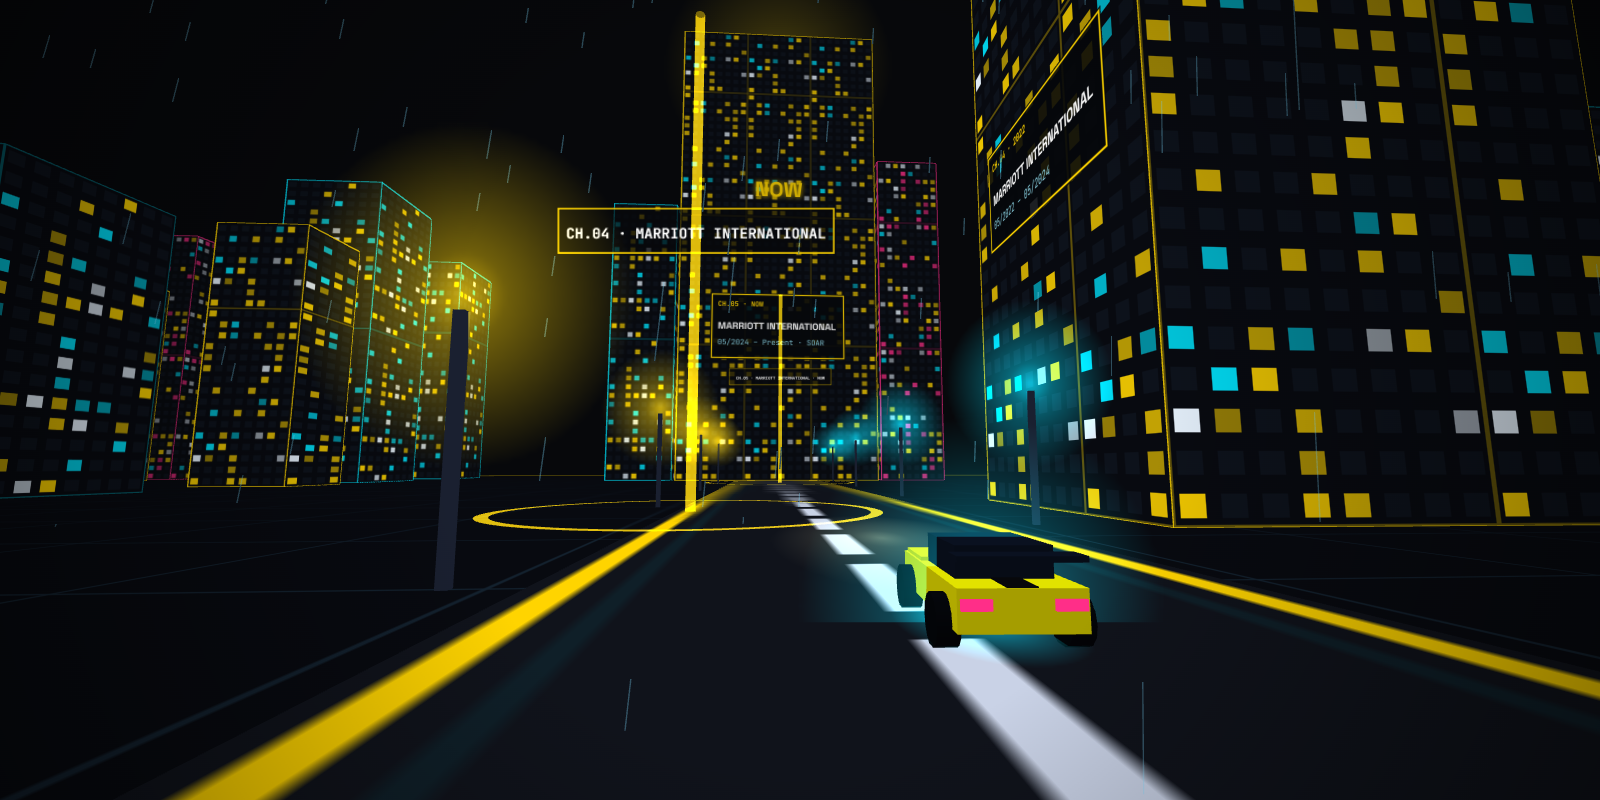
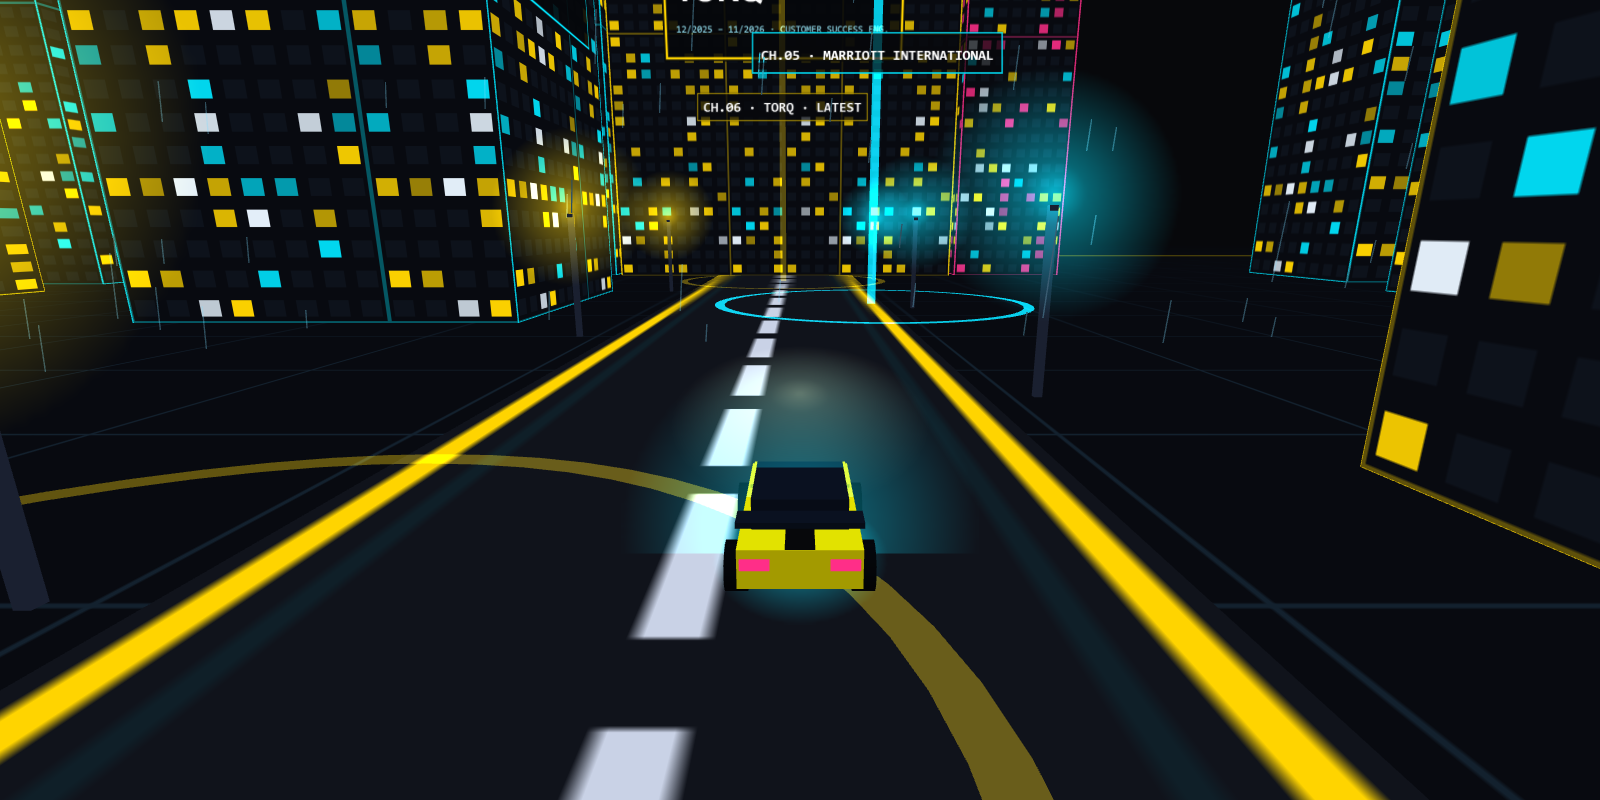
Update to final resume: Torq chapter, skills by category, contact email

diff --git a/game.js b/game.js
@@ -23,9 +23,9 @@ function buildResume() {
   el.innerHTML =
     '<div class="bar"><b>// PLAIN RÉSUMÉ</b><span><button class="btn ghost" id="rsPrint">Print / save PDF</button> <button class="btn go" id="rsBack">Back to the city</button></span></div>' +
     '<div class="page"><h1>' + esc(R.name) + '</h1><div class="t">' + esc(R.title) + '</div>' +
-    '<div class="links"><a href="' + esc(R.linkedin) + '" target="_blank" rel="noopener">LinkedIn</a><a href="' + esc(R.github) + '" target="_blank" rel="noopener">GitHub</a></div>' +
+    '<div class="links"><a href="mailto:' + esc(R.email) + '">' + esc(R.email) + '</a><a href="' + esc(R.linkedin) + '" target="_blank" rel="noopener">LinkedIn</a><a href="' + esc(R.github) + '" target="_blank" rel="noopener">GitHub</a></div>' +
     '<h3>SUMMARY</h3><p>' + esc(R.summary) + '</p><h3>EXPERIENCE</h3>' + jobs +
-    '<div class="g"><div><h3>SKILLS</h3><ul>' + R.skills.map(function (s) { return '<li>' + esc(s[0]) + ' — ' + s[1] + '/5</li>'; }).join('') + '</ul>' +
+    '<div class="g"><div><h3>SKILLS</h3><ul>' + R.skills.map(function (s) { return '<li><b>' + esc(s[0]) + ':</b> ' + esc(s[1].join(', ')) + '</li>'; }).join('') + '</ul>' +
     '<h3>EDUCATION</h3><ul>' + R.edu.map(function (e) { return '<li>' + esc(e[0]) + ' — ' + esc(e[2]) + ' (' + esc(e[1]) + ')</li>'; }).join('') + '</ul>' +
     '<h3>LANGUAGES</h3><ul>' + R.langs.map(function (l) { return '<li>' + esc(l[0]) + ' — ' + esc(l[1]) + '</li>'; }).join('') + '</ul></div>' +
     '<div><h3>CERTIFICATIONS</h3><ul>' + R.certs.map(function (c) { return '<li>' + esc(c) + '</li>'; }).join('') + '</ul></div></div></div>';
@@ -218,11 +218,11 @@ function addZone(o) {
 
 /* --- chapters: timeline road, oldest at the south end, "now" at the tower --- */
 var jobsOld = R.jobs.slice().reverse();
-var jobPos = [[-30, -60, 24, 22, 38, 'y', 1], [30, -115, 24, 22, 48, 'c', -1], [-30, -170, 26, 24, 58, 'm', 1], [30, -225, 26, 24, 68, 'y', -1]];
+var jobPos = [[-30, -60, 24, 22, 38, 'y', 1], [30, -115, 24, 22, 48, 'c', -1], [-30, -170, 26, 24, 58, 'm', 1], [30, -225, 26, 24, 68, 'y', -1], [-30, -278, 26, 24, 78, 'c', 1]];
 jobsOld.forEach(function (j, i) {
   var kick = 'CH.0' + (i + 1) + '  ' + j.dates.replace(/ – /, ' → ');
   var lastYear = j.dates.split('–')[0].trim().split('/')[1];
-  if (i < 4) {
+  if (i < jobsOld.length - 1) {
     var p = jobPos[i], side = p[6], acc = p[5];
     building(p[0], p[1], p[2], p[3], p[4], acc);
     var sx = p[0] + side * (p[2] / 2 + .2);
@@ -231,11 +231,11 @@ jobsOld.forEach(function (j, i) {
   } else {
     building(0, -330, 44, 32, 104, 'y');
     building(-30, -322, 14, 14, 62, 'c'); building(30, -322, 14, 14, 74, 'm');
-    sign(signTex('CH.05 · NOW', j.co.toUpperCase(), j.dates + ' · ' + 'SOAR', HEX.y), 30, 15, 0, 34, -313.8, 0);
-    var nowc = mkCanvas(512, 128), g2 = nowc.getContext('2d'); g2.fillStyle = HEX.y; g2.font = '700 96px "Space Grotesk",sans-serif'; g2.textAlign = 'center'; g2.shadowColor = HEX.y; g2.shadowBlur = 24; g2.fillText('NOW', 256, 100);
+    sign(signTex('CH.0' + (i + 1) + ' · LATEST', j.co.toUpperCase(), j.dates + ' · CUSTOMER SUCCESS ENG.', HEX.y), 30, 15, 0, 34, -313.8, 0);
+    var nowc = mkCanvas(512, 128), g2 = nowc.getContext('2d'); g2.fillStyle = HEX.y; g2.font = '700 96px "Space Grotesk",sans-serif'; g2.textAlign = 'center'; g2.shadowColor = HEX.y; g2.shadowBlur = 24; g2.fillText('LATEST', 256, 100);
     sign(tex(nowc), 26, 6.5, 0, 66, -313.7, 0);
     glow(C.y, 60, 0, 108, -330, .5);
-    addZone({ id: 'j' + i, x: 0, z: -296, r: 14, color: C.y, cname: 'y', label: 'CH.05 · ' + j.co.toUpperCase() + ' · NOW', jobIdx: i, cardCls: '' });
+    addZone({ id: 'j' + i, x: 0, z: -304, r: 12, color: C.y, cname: 'y', label: 'CH.0' + (i + 1) + ' · ' + j.co.toUpperCase() + ' · LATEST', jobIdx: i, cardCls: '' });
   }
 });
 
@@ -256,16 +256,16 @@ jobsOld.forEach(function (j, i) {
 var certSlabs = [];
 (function () {
   R.skills.forEach(function (s, i) {
-    var h = s[1] * 7, x = 150, z = -48 + i * 10, col = [C.c, C.y, C.m, C.c, C.y][i], hc = [HEX.c, HEX.y, HEX.m, HEX.c, HEX.y][i];
+    var n = s[1].length, h = 6 + n * 4, x = 150, z = -48 + i * 10, col = [C.c, C.y, C.m][i % 3], hc = [HEX.c, HEX.y, HEX.m][i % 3];
     var m = new THREE.Mesh(new THREE.BoxGeometry(4, h, 4), new THREE.MeshBasicMaterial({ color: col, transparent: true, opacity: .22, blending: THREE.AdditiveBlending, depthWrite: false }));
     m.position.set(x, h / 2, z); scene.add(m);
     var e = new THREE.LineSegments(new THREE.EdgesGeometry(m.geometry), new THREE.LineBasicMaterial({ color: col })); e.position.copy(m.position); scene.add(e);
-    for (var k = 1; k <= s[1]; k++) { var cap = new THREE.Mesh(new THREE.BoxGeometry(4.2, .25, 4.2), new THREE.MeshBasicMaterial({ color: col })); cap.position.set(x, k * 7 - .1, z); scene.add(cap); }
-    var lb = labelSprite(s[0].split('·')[0].trim() + ' ' + s[1] + '/5', hc, 18); lb.position.set(x, h + 4, z); scene.add(lb);
+    for (var k = 1; k <= n; k++) { var cap = new THREE.Mesh(new THREE.BoxGeometry(4.2, .25, 4.2), new THREE.MeshBasicMaterial({ color: col })); cap.position.set(x, 6 + k * 4 - .1, z); scene.add(cap); }
+    var lb = labelSprite(s[0].toUpperCase(), hc, 18); lb.position.set(x, h + 4, z); scene.add(lb);
     glow(col, 14, x, h + 1, z, .7);
     colliders.push({ x: x, z: z, r: 2.8 });
   });
-  addZone({ id: 'skills', x: 118, z: -28, r: 12, color: C.c, cname: 'c', label: 'SKILLS · BLUE × RED', cardCls: 'c2' });
+  addZone({ id: 'skills', x: 118, z: -28, r: 12, color: C.c, cname: 'c', label: 'SKILLS · THE TOOLBELT', cardCls: 'c2' });
   R.certs.forEach(function (c, i) {
     var m = new THREE.Mesh(new THREE.BoxGeometry(2.4, 4, .3), new THREE.MeshBasicMaterial({ color: C.c, transparent: true, opacity: .28, blending: THREE.AdditiveBlending, depthWrite: false }));
     var e = new THREE.LineSegments(new THREE.EdgesGeometry(m.geometry), new THREE.LineBasicMaterial({ color: i % 3 === 0 ? C.y : C.c })); m.add(e);
@@ -521,11 +521,11 @@ function cardHTML(z) {
   }
   if (z.jobIdx != null) {
     var j = jobsOld[z.jobIdx];
-    return h + '<div class="k">// CHAPTER 0' + (z.jobIdx + 1) + ' OF 05' + (z.jobIdx === 4 ? ' · CURRENT' : '') + '</div><h2>' + esc(j.role) + '</h2><div class="m">' + esc(j.co) + ' · ' + esc(j.dates) + '<br>' + esc(j.loc) + '</div><p>' + esc(j.text) + '</p>';
+    return h + '<div class="k">// CHAPTER 0' + (z.jobIdx + 1) + ' OF 0' + jobsOld.length + (z.jobIdx === jobsOld.length - 1 ? ' · LATEST' : '') + '</div><h2>' + esc(j.role) + '</h2><div class="m">' + esc(j.co) + ' · ' + esc(j.dates) + '<br>' + esc(j.loc) + '</div><p>' + esc(j.text) + '</p>';
   }
   if (z.id === 'skills') {
-    return h + '<div class="k">// SKILLS · SELF-ASSESSED, 1–5</div><h2>Blue team × red team</h2>' + R.skills.map(function (s) { return '<div class="lvl"><span>' + esc(s[0]) + '</span>' + lvl(s[1]) + '</div>'; }).join('') +
-      '<div class="fine">The pylons to the east are scaled to these levels.</div>';
+    return h + '<div class="k">// SKILLS · THE TOOLBELT</div><h2>SOC to SOAR to customers</h2>' + R.skills.map(function (s) { return '<div class="lvl"><span><b>' + esc(s[0]) + '</b><br><small>' + esc(s[1].join(' · ')) + '</small></span></div>'; }).join('') +
+      '<div class="fine">One pylon per category, one block per tool.</div>';
   }
   if (z.id === 'certs') {
     return h + '<div class="k">// CERTIFICATIONS · ' + R.certs.length + '</div><h2>Credentials</h2><ul>' + R.certs.map(function (c) { return '<li>' + esc(c) + '</li>'; }).join('') + '</ul>';
@@ -544,8 +544,8 @@ function cardHTML(z) {
       '<input id="pw" type="text" autocomplete="off" spellcheck="false" placeholder="passphrase, then Enter" aria-label="passphrase"><div id="pwmsg" class="fine">Click the field to type (Esc returns to driving). Hint: every analyst&#39;s first decode.</div>';
   }
   if (z.id === 'garage') {
-    return h + '<div class="k">// THE GARAGE · CONTACT</div><h2>Let&#39;s talk</h2><p>Thanks for finding the door. Security automation, incident response, and building things that look as good as they run.</p>' +
-      '<div class="row"><a class="btn go" href="' + esc(R.linkedin) + '" target="_blank" rel="noopener">LinkedIn</a><a class="btn ghost" href="' + esc(R.github) + '" target="_blank" rel="noopener">GitHub</a><button class="btn ghost" id="rsOpen">Plain résumé</button></div>';
+    return h + '<div class="k">// THE GARAGE · CONTACT</div><h2>Let&#39;s talk</h2><p>Thanks for finding the door. Security automation, incident response, and building things that look as good as they run. Email me, and add me on LinkedIn.</p>' +
+      '<div class="row"><a class="btn go" href="mailto:' + esc(R.email) + '">Email</a><a class="btn ghost" href="' + esc(R.linkedin) + '" target="_blank" rel="noopener">LinkedIn</a><a class="btn ghost" href="' + esc(R.github) + '" target="_blank" rel="noopener">GitHub</a><button class="btn ghost" id="rsOpen">Plain résumé</button></div>';
   }
   return h;
 }

diff --git a/data.js b/data.js
@@ -1,109 +1,83 @@
-/* Résumé data: the same public sample as the ResumeAI gallery. Edit this file to make the world yours. */
+/* Résumé data: edit this file to make the world yours.
+   Jobs are listed newest first; the city lays them out oldest first along the timeline road.
+   skills = [category, [tools]]: one pylon per category, one block per tool. */
 window.RESUME = {
  "name": "Gustavo Freitas",
- "title": "Computer Scientist — Offensive & Defensive Cyber Operations",
- "summary": "Proficient in DevOps, penetration testing, enterprise risk management and digital forensics (DFIR), with a skill set that aligns perfectly with security operations. Hands-on experience backed by deep knowledge of industry best practices, and a Computer Science path complemented by a background in applied physics — a multidimensional perspective for problem-solving in an ever-evolving threat landscape.",
+ "title": "Customer Success Engineer | SOAR & Security Automation | Incident Response",
+ "summary": "Technical advisor who has stood on both sides of the security team: 8+ years in the SOC and incident response, then building and delivering automation as a SOAR engineer at Marriott and a customer-facing Customer Success Engineer at Torq. I get enterprise teams live, solve the hard technical problems, and turn customer pain into product direction. GIAC GCIH certified.",
+ "email": "gustavo.freitas01001@gmail.com",
  "linkedin": "https://www.linkedin.com/in/gustavo-freitas-69b93910b/",
  "github": "https://github.com/Tootenramen",
  "jobs": [
   {
-   "role": "Security Orchestration, Automation & Response Engineer",
+   "role": "Hyperautomation Customer Success Engineer",
+   "co": "Torq",
+   "dates": "12/2025 – 11/2026",
+   "loc": "Remote",
+   "text": "Managed a portfolio of 30+ enterprise accounts representing $4M+ in ARR as a top performer on the team, leading hands-on implementation and onboarding, then serving as technical advisor through adoption and expansion. Pioneered the customer Value Report and the automation ROI report. Built Python workflows and API integrations across SIEM, EDR, ticketing and cloud tools, and turned customer feedback and security trends into product input."
+  },
+  {
+   "role": "SOAR Engineer, Global Information Security",
    "co": "Marriott International",
-   "dates": "05/2024 – Present",
-   "loc": "Remote · Bethesda, MD",
-   "text": "Design, develop and implement automations that accelerate functions across Global Information Security. Partner with the SOC, CIRT and other teams to find inefficient, manual processes worth automating."
+   "dates": "05/2024 – 11/2025",
+   "loc": "Remote",
+   "text": "Designed and shipped Python-heavy playbooks in Splunk SOAR (Phantom) that sped up work across Marriott's global security organization and cut development time for new automations. Partnered with the SOC and CIRT to find manual, slow processes and replace them with automation."
   },
   {
    "role": "Senior Cyber Incident Response Analyst",
    "co": "Marriott International",
    "dates": "05/2022 – 05/2024",
-   "loc": "Remote · Bethesda, MD",
-   "text": "Led global investigations using advanced research methods to respond to digital forensics incidents. Delivered actionable insight and threat-intelligence reports by correlating data across sources."
+   "loc": "Remote",
+   "text": "Investigated security incidents worldwide, applying digital forensics to determine scope and impact. Correlated data from multiple sources into threat intelligence reports that drove timely decisions and risk reduction."
   },
   {
-   "role": "Security Analyst, Security Operations Center",
+   "role": "Security Analyst, SOC",
    "co": "Arkansas Blue Cross Blue Shield",
    "dates": "11/2021 – 05/2022",
    "loc": "Little Rock, AR",
-   "text": "Managed and responded to cyber incidents while securing SIEM, IDS and IPS. Ran threat research and vulnerability management; strengthened IR through continuous monitoring and countermeasures."
+   "text": "Responded to incidents and secured SIEM, IDS and IPS; ran threat research and vulnerability management."
   },
   {
-   "role": "Lead Security Analyst, Security Operations Center",
+   "role": "Lead Security Analyst, SOC",
    "co": "Bank OZK",
    "dates": "01/2019 – 08/2021",
    "loc": "Little Rock, AR",
-   "text": "Owned primary incident response and the security of hosts across the United States. Administered SIEM and IDS rules, tuning detection to the evolving threat landscape."
+   "text": "Led primary incident response and host security for the bank's hosts across the entire US; tuned SIEM and IDS rules to keep detection ahead of changing threats."
   },
   {
-   "role": "Network Security Analyst, Security Operations",
+   "role": "Network Security Analyst",
    "co": "Mechanics Bank",
    "dates": "09/2016 – 08/2018",
    "loc": "Hercules, CA",
-   "text": "Supported every critical SOC technology across its life cycle, plus cyber incident response. Strengthened security posture with IR expertise and the right tooling."
+   "text": "Supported all critical SOC technologies across their life cycle and strengthened security through incident response."
   }
  ],
  "skills": [
-  [
-   "DevOps · Blue Team",
-   4
-  ],
-  [
-   "Penetration Testing · Red Team",
-   4
-  ],
-  [
-   "Exploit Dev / Vulnerability Research",
-   3
-  ],
-  [
-   "Enterprise Risk Management",
-   4
-  ],
-  [
-   "DFIR · Digital Forensics",
-   5
-  ]
+  ["Cloud & Systems", ["AWS", "Linux", "Docker", "Kubernetes", "Git"]],
+  ["Data", ["SQL", "MongoDB"]],
+  ["APIs & Identity", ["REST", "Postman", "SSO", "SAML", "OAuth", "JWT"]],
+  ["Networking", ["DNS", "TCP/IP", "HTTP/HTTPS", "TLS"]],
+  ["Automation", ["SOAR", "Torq", "Splunk SOAR (Phantom)", "ServiceNow Flow Designer", "Python"]],
+  ["Security", ["IR", "DFIR", "SIEM", "EDR", "IDS/IPS", "Threat intel", "Vuln management"]]
  ],
  "certs": [
-  "Apple Certified Support Professional (2016)",
+  "GIAC Certified Incident Handler, GCIH (2020)",
   "CompTIA Security+ (2019)",
   "CompTIA A+ (2019)",
-  "SpecterOps – Red Team Operations (2020)",
-  "DARPA – SSITH Bug Hunter (2020)",
-  "SANS – GIAC Certified Incident Handler (2020)",
-  "Tenable CTF – Team webepeepin ('21 '22 '23)",
   "ServiceNow Flow Designer Developer (2024)",
-  "Python Certified Entry-Level Programmer (2025)"
+  "Python Certified Entry-Level Programmer (2025)",
+  "SpecterOps Red Team Operations (2020)",
+  "DARPA SSITH Bug Hunter (2020)",
+  "Tenable CTF, team webepeepin (2021–present)"
  ],
  "edu": [
-  [
-   "Computer Science",
-   "10/2022 – 10/2023",
-   "Western Governors University"
-  ],
-  [
-   "Computer Science",
-   "07/2020 – 01/2022",
-   "University of Arkansas – eVersity"
-  ],
-  [
-   "Applied Physics",
-   "08/2012 – 12/2013",
-   "University of Central Arkansas"
-  ]
+  ["Computer Science", "2022–23", "Western Governors University"],
+  ["Computer Science", "2020–22", "University of Arkansas eVersity"],
+  ["Applied Physics", "2012–13", "University of Central Arkansas"]
  ],
  "langs": [
-  [
-   "English",
-   "Native / Bilingual"
-  ],
-  [
-   "Portuguese",
-   "Native / Bilingual"
-  ],
-  [
-   "Spanish",
-   "Professional Working"
-  ]
+  ["English", "Native"],
+  ["Portuguese", "Native"],
+  ["Spanish", "Professional"]
  ]
 };

diff --git a/index.html b/index.html
@@ -37,7 +37,7 @@
   <div class="intro-box">
     <div class="kick">// SIGNAL ACQUIRED</div>
     <h1>Gustavo<br>Freitas</h1>
-    <p class="sub">Computer Scientist — Offensive &amp; Defensive Cyber Operations</p>
+    <p class="sub">Customer Success Engineer · SOAR &amp; Security Automation · Incident Response</p>
     <p class="lede">My résumé is a city. Drive through it: every district is a chapter, and the art gallery is the other half of the signal. One door is locked.</p>
     <div class="row">
       <button id="start" class="btn go">START DRIVING <kbd>Enter</kbd></button>

diff --git a/README.md b/README.md
@@ -24,7 +24,7 @@ game engine: just `three.js` and about 700 lines of hand-written physics and wor
 
 ## The city
 
-- **North road: the timeline.** Five career chapters, oldest first, ending at the tower marked NOW.
+- **North road: the timeline.** Six career chapters, oldest first, ending at the tower marked LATEST.
 - **East: skills and certifications.** Pylons scaled to the skill levels, and a ring of floating cert slabs.
 - **West: education and languages.**
 - **South: the gallery.** Six generative art pieces drawn by code in your browser: flow field, pulse, glitch, rain, trails, a fractal tree.
@@ -38,9 +38,9 @@ game engine: just `three.js` and about 700 lines of hand-written physics and wor
 
 ## Make it yours
 
-The sample résumé is the author's public one from [ResumeAI](https://github.com/Tootenramen/ResumeAI). Replace the
-values in `data.js` (`name`, `title`, `summary`, `jobs`, `skills`, `certs`, `edu`, `langs`, `linkedin`, `github`).
-The five-job road and the skill pylons are generated from that data. To change the puzzle, edit `SECRET` in `game.js`.
+The résumé in the demo is the author's. Replace the
+values in `data.js` (`name`, `title`, `summary`, `email`, `jobs`, `skills`, `certs`, `edu`, `langs`, `linkedin`, `github`).
+The six-job road and the skill pylons are generated from that data. To change the puzzle, edit `SECRET` in `game.js`.
 
 ## How it is built
 
